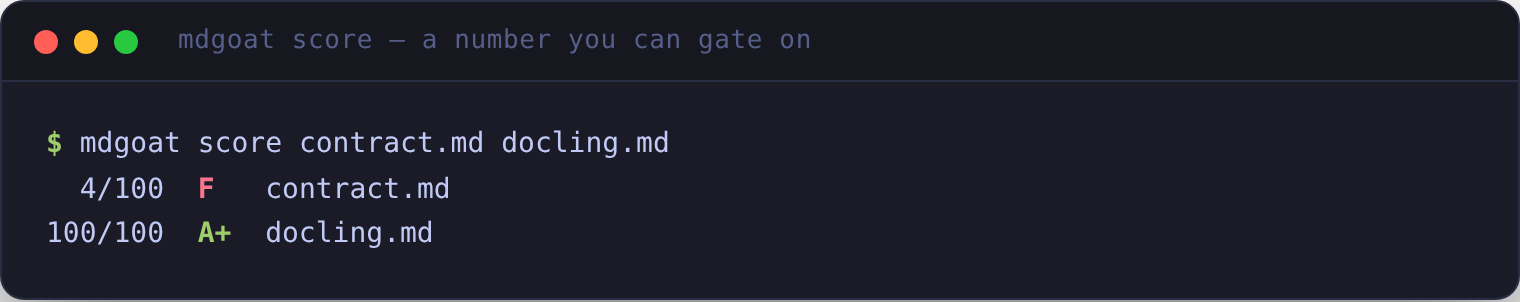
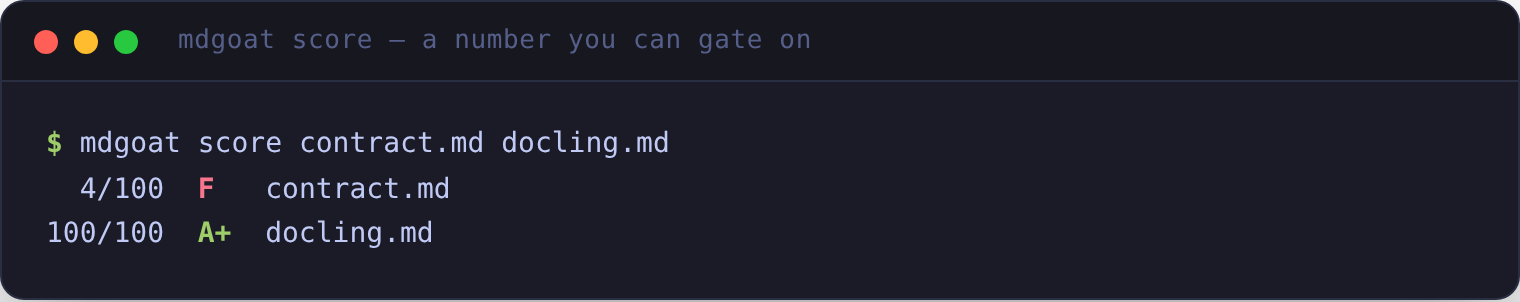
Add light-theme shots, canary screenshot, and a social card
- Light-theme variants of every terminal screenshot + hero GIF; the README
  now serves theme-aware images via GitHub's #gh-dark-mode-only /
  #gh-light-mode-only, so shots match the reader's light/dark preference.
- New canary inject→verify screenshot for the red-team section.
- assets/social-card.png: a 1200×630 OpenGraph card for the repo's social
  preview and link unfurls.
- Colorize `mdgoat canary verify` PASS/FAIL (green/red) on a TTY, so the
  canary shot reads at a glance; piped/--json output is unchanged.

All shots rendered from real CLI output (Chromium) and GIFs assembled with
Pillow. 118 tests still pass; README passes its own scan gate.

Claude-Session: https://claude.ai/code/session_01K5pjsnFcWG6B5GQTaHYunb

Changed region(s): [[0.0309, 0.9834, 0.9895, 1.0]]

diff --git a/mdgoat/cli.py b/mdgoat/cli.py
@@ -310,19 +310,24 @@ def cmd_canary(args) -> int:
         if args.json:
             print(json.dumps(result.to_dict(), indent=2))
         else:
+            color = use_color()
+            green = "\x1b[1;32m" if color else ""
+            red = "\x1b[1;31m" if color else ""
+            dim = "\x1b[2m" if color else ""
+            reset = "\x1b[0m" if color else ""
             if result.defended:
-                print("PASS: no canary tokens leaked — every injection was neutralized.")
+                print("%sPASS%s: no canary tokens leaked — every injection was neutralized." % (green, reset))
             else:
                 print(
-                    "FAIL: %d injection channel(s) reached the model:"
-                    % len(result.fired)
+                    "%sFAIL%s: %d injection channel(s) reached the model:"
+                    % (red, reset, len(result.fired))
                 )
                 for c in result.fired:
-                    print("  %s  (%s)" % (c.token, c.technique))
+                    print("  %s%s%s  (%s)" % (red, c.token, reset, c.technique))
             if result.survived:
                 print(
-                    "  defended: %s"
-                    % ", ".join(c.technique for c in result.survived)
+                    "  %sdefended: %s%s"
+                    % (dim, ", ".join(c.technique for c in result.survived), reset)
                 )
         return 0 if result.defended else 1
 

diff --git a/README.md b/README.md
@@ -14,7 +14,8 @@
 </p>
 
 <p align="center">
-  <img src="assets/demo.gif" alt="mdgoat scanning a poisoned document" width="820">
+  <img src="assets/demo.gif#gh-dark-mode-only" alt="mdgoat scanning a poisoned document" width="820">
+  <img src="assets/demo-light.gif#gh-light-mode-only" alt="mdgoat scanning a poisoned document" width="820">
 </p>
 
 Tools like [Microsoft MarkItDown](https://github.com/microsoft/markitdown), Docling, and countless RAG pipelines have made one thing standard: **everything becomes markdown before it reaches your model.** PDFs, Word docs, spreadsheets, web pages — all funneled into markdown and fed straight into an LLM's context window.
@@ -110,7 +111,8 @@ mdgoat score README.md --badge               # emit a shields.io badge for your 
 Every document starts at 100. Findings deduct by severity, each rule is capped so one noisy rule can't dominate, and **any critical injection caps the score at 40** — a document carrying hidden instructions is never "mostly fine."
 
 <p align="center">
-  <img src="assets/score.png" alt="mdgoat score output" width="640">
+  <img src="assets/score.png#gh-dark-mode-only" alt="mdgoat score output" width="640">
+  <img src="assets/score-light.png#gh-light-mode-only" alt="mdgoat score output" width="640">
 </p>
 
 ### `clean` — fix what's safely fixable
@@ -131,7 +133,8 @@ The cleaner is **conservative and deterministic** — no LLM, no network, no gue
 You ran the same PDF through two converters and want the cleaner output — not the one that *looks* nicer. `diff` scores both and shows exactly which problems each has that the other doesn't.
 
 <p align="center">
-  <img src="assets/diff.png" alt="mdgoat diff comparing two converters" width="820">
+  <img src="assets/diff.png#gh-dark-mode-only" alt="mdgoat diff comparing two converters" width="820">
+  <img src="assets/diff-light.png#gh-light-mode-only" alt="mdgoat diff comparing two converters" width="820">
 </p>
 
 ### `cost` — the token & dollar footprint
@@ -152,6 +155,11 @@ mdgoat canary verify canaries.json model-output.txt   # exit 1 if any injection 
 ```
 
 Any canary token that comes back means that channel defeated your sanitizer. Every canary mdgoat plants is also something `mdgoat scan` catches — so if you run mdgoat in your pipeline, `verify` should always pass.
+
+<p align="center">
+  <img src="assets/canary.png#gh-dark-mode-only" alt="mdgoat canary inject then verify" width="860">
+  <img src="assets/canary-light.png#gh-light-mode-only" alt="mdgoat canary inject then verify" width="860">
+</p>
 
 ---
 

diff --git a/CHANGELOG.md b/CHANGELOG.md
@@ -6,6 +6,10 @@ adheres to [Semantic Versioning](https://semver.org/spec/v2.0.0.html).
 
 ## [Unreleased]
 
+### Changed
+- `mdgoat canary verify` now colors its PASS/FAIL result (green/red) when writing
+  to a terminal, matching the rest of the CLI. No change to piped/`--json` output.
+
 ## [0.2.0] - 2026-07-13
 
 ### Added